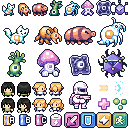
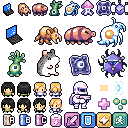
added computer mon

diff --git a/scenes/world.js b/scenes/world.js
@@ -8,23 +8,23 @@ function setWorld(worldState) {
 
     const map = [
         addLevel([
-            '                  b   ',
-            ' cddddddddddddde      ',
-            ' 300000000000002      ',
-            ' 300000000000000jjjjj ',
-            ' 300000000000000lllll ',
-            ' 300000000000002      ',
-            ' 300030000008889      ',
-            ' 300030000024445      ',
-            ' 3000a8888897777      ',
-            ' 300064444457777      ',
-            ' 300000000000000   b  ',
-            ' 300000000021111      ',
-            ' 30000000002          ',
-            ' 11111111111      b   ',
-            '         b            ',
-            '  b          b        ',
-            '     b                '
+            '       b          b             ',
+            ' cddddddddddddde      cddddde   ',
+            ' 300000000000002      3000002  b',
+            ' 300000000000000jjjjjj0000002   ',
+            ' 300000000000000llllll0000002   ',
+            ' 300000000000002      3000002   ',
+            ' 300030000008889      a888889 b ',
+            ' 300030000024445      6444445   ',
+            ' 3000a8888897777                ',
+            ' 300064444457777                ',
+            ' 300000000000000   b      b     ',
+            ' 300000000021111                ',
+            ' 30000000002                b   ',
+            ' 11111111111      b             ',
+            '         b                      ',
+            '  b          b                  ',
+            '     b                          '
         ], {
             tileWidth: 16,
             tileHeight: 16,
@@ -50,20 +50,20 @@ function setWorld(worldState) {
             }
         }),
         addLevel([
-            '                      ',
-            '       12             ',
-            '       34             ',
-            ' 00 0    00           ',
-            ' 0     00   12        ',
-            ' 0          34        ',
-            '          0           ',
-            '            5         ',
-            '            6         ',
-            '  0   5               ',
-            '  0   6   0           ',
-            '                      ',
-            '                      ',
-            '                      '
+            '                           5    ',
+            '       12                  6    ',
+            '       34             00        ',
+            ' 00 0    00                     ',
+            ' 0     00   12             0    ',
+            ' 0          34         0        ',
+            '          0                     ',
+            '            5                   ',
+            '            6                   ',
+            '  0   5                         ',
+            '  0   6   0                     ',
+            '                                ',
+            '                                ',
+            '                                '
         ], {
             tileWidth: 16,
             tileHeight: 16,
@@ -78,21 +78,21 @@ function setWorld(worldState) {
             }
         }),
         addLevel([
-            ' 000000000000000      ',
-            '0      11       0     ',
-            '0      11       00000 ',
-            '0                     ',
-            '0           11        ',
-            '0           11  00000 ',
-            '0    2          0     ',
-            '0    2      3333      ',
-            '0    2      0   0     ',
-            '0    3333333    0     ',
-            '0     0         0     ',
-            '0           0000      ',
-            '0           0         ',
-            ' 00000000000          ',
-            '                      '
+            ' 000000000000000      0000000   ',
+            '0      11       0    0     0 0  ',
+            '0      11       000000       0  ',
+            '0                            0  ',
+            '0           11               0  ',
+            '0           11  000000       0  ',
+            '0    2          0    0       0  ',
+            '0    2      3333      3333333   ',
+            '0    2      0   0               ',
+            '0    3333333    0               ',
+            '0     0         0               ',
+            '0           0000                ',
+            '0           0                   ',
+            ' 00000000000                    ',
+            '                                '
         ], {
             tileWidth: 16,
             tileHeight: 16,
@@ -141,14 +141,14 @@ function setWorld(worldState) {
     const centipedeMon = add([sprite('mini-mons'), area(), body({isStatic: true}), pos(100,100), scale(4), 'centipede'])
     centipedeMon.play('centipede')
 
-    const grassMon = add([sprite('mini-mons'), area(), body({isStatic: true}), pos(900, 570), scale(4), 'grass'])
+    const grassMon = add([sprite('mini-mons'), area(), body({isStatic: true}), pos(1650, 215), scale(4), 'grass'])
     grassMon.play('grass')
 
-    add([ sprite('npc'), scale(4), pos(600,700), area(), body({isStatic: true}), 'npc'])
+    add([ sprite('npc'), scale(4), pos(600,750), area(), body({isStatic: true}), 'npc'])
 
     const player = add([
         sprite('player-down'),
-        pos(500,700),
+        pos(500,750),
         scale(4),
         area(),
         body(),

diff --git a/assetLoader.js b/assetLoader.js
@@ -1,5 +1,5 @@
 function loadAssets() {
-    loadSpriteAtlas('./assets/characters3.png', {
+    loadSpriteAtlas('./assets/characters2.png', {
         'player-down': { x: 0, y: 82, width: 16, height: 16 },
         'player-up': { x: 16, y: 82, width: 16, height: 16 },
         'player-side': { x: 0, y: 98, width: 32, height: 16, sliceX: 2, sliceY: 1,
